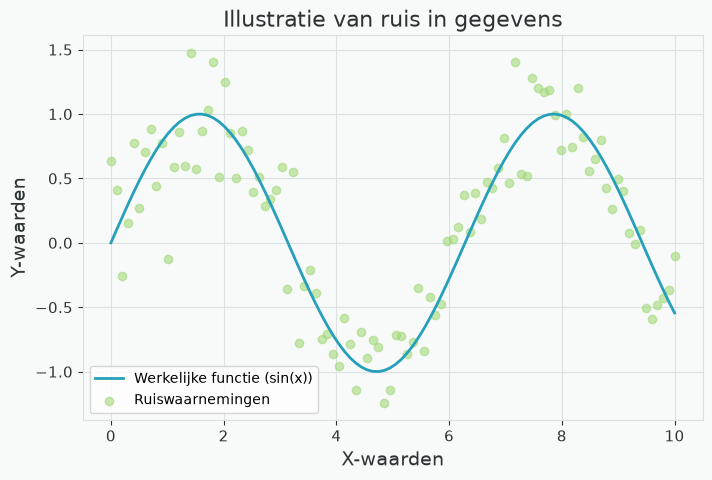
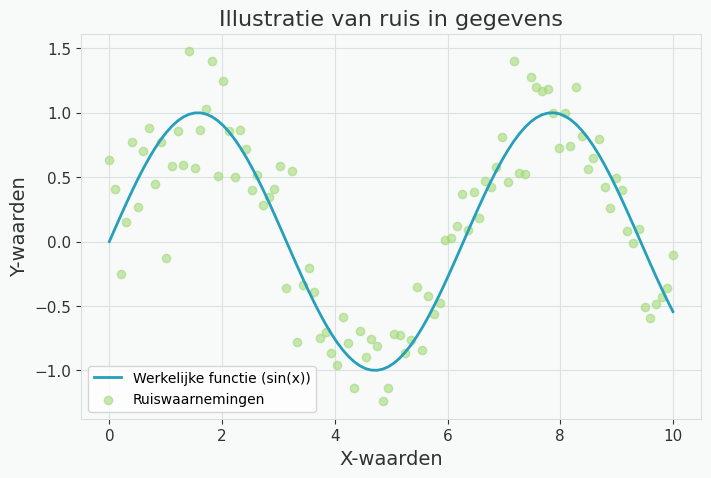
using own plot config

diff --git a/CCPlots/implementation/NoisyDataExample.py b/CCPlots/implementation/NoisyDataExample.py
@@ -1,29 +1,24 @@
+"""
+Demonstrates the concept of noise in data by plotting a clean sin(x) curve
+alongside noisy observations sampled from a Gaussian distribution around it.
+
+Figures
+-------
+- ``noisy_data_example.png`` / ``_NL.png`` — clean curve + noisy scatter
+
+Configuration
+-------------
+``CCPlots/plot_configs/noisy_data.json``
+"""
 import numpy as np
-import matplotlib.pyplot as plt
 
 from CCPlots.PlotExample import PlotExample
-from CCPlots.config import BITROOT_PALETTE, apply_bitroot_style, output_path
+from CCPlots.config import BITROOT_PALETTE
 
 
-TEXT_BY_LOCALE = {
-    "en": {
-        "title": "Illustration of Noise in Data",
-        "xlabel": "X Values",
-        "ylabel": "Y Values",
-        "true_label": "True Function (sin(x))",
-        "noisy_label": "Noisy Observations",
-    },
-    "nl": {
-        "title": "Illustratie van ruis in gegevens",
-        "xlabel": "X-waarden",
-        "ylabel": "Y-waarden",
-        "true_label": "Werkelijke functie (sin(x))",
-        "noisy_label": "Ruiswaarnemingen",
-    },
-}
+class NoisyData(PlotExample):
 
-
-class NoiseIllustration(PlotExample):
+    CONFIG_KEY = "noisy_data"
 
     primary: str = BITROOT_PALETTE['primary']
     tertiary: str = BITROOT_PALETTE['tertiary']
@@ -34,11 +29,8 @@ class NoiseIllustration(PlotExample):
         noise = np.random.normal(0, 0.3, size=x.shape)
         y_noisy = y_actual + noise
 
-        for locale, labels in (("en", TEXT_BY_LOCALE["en"]), ("nl", TEXT_BY_LOCALE["nl"])):
-            fname = f"noisy_data_example{'_NL' if locale == 'nl' else ''}.png"
-
-            fig, ax = plt.subplots(figsize=(8, 5), facecolor=BITROOT_PALETTE['background'])
-            ax.set_facecolor(BITROOT_PALETTE['background'])
+        for _locale, labels, suffix in self.iter_locales():
+            fig, ax = self.create_figure()
 
             ax.plot(x, y_actual, label=labels["true_label"], color=self.primary, linewidth=2)
             ax.scatter(x, y_noisy, label=labels["noisy_label"], color=self.tertiary, alpha=0.6)
@@ -48,7 +40,9 @@ class NoiseIllustration(PlotExample):
             ax.set_title(labels["title"], color=BITROOT_PALETTE['text'])
             ax.legend()
 
-            apply_bitroot_style(ax)
+            self.apply_style(ax)
+            self.save_figure(fig, "default", suffix=suffix)
 
-            fig.savefig(output_path(fname), bbox_inches='tight', pad_inches=0.1)
-            plt.close(fig)
+
+if __name__ == "__main__":
+    NoisyData().main()
